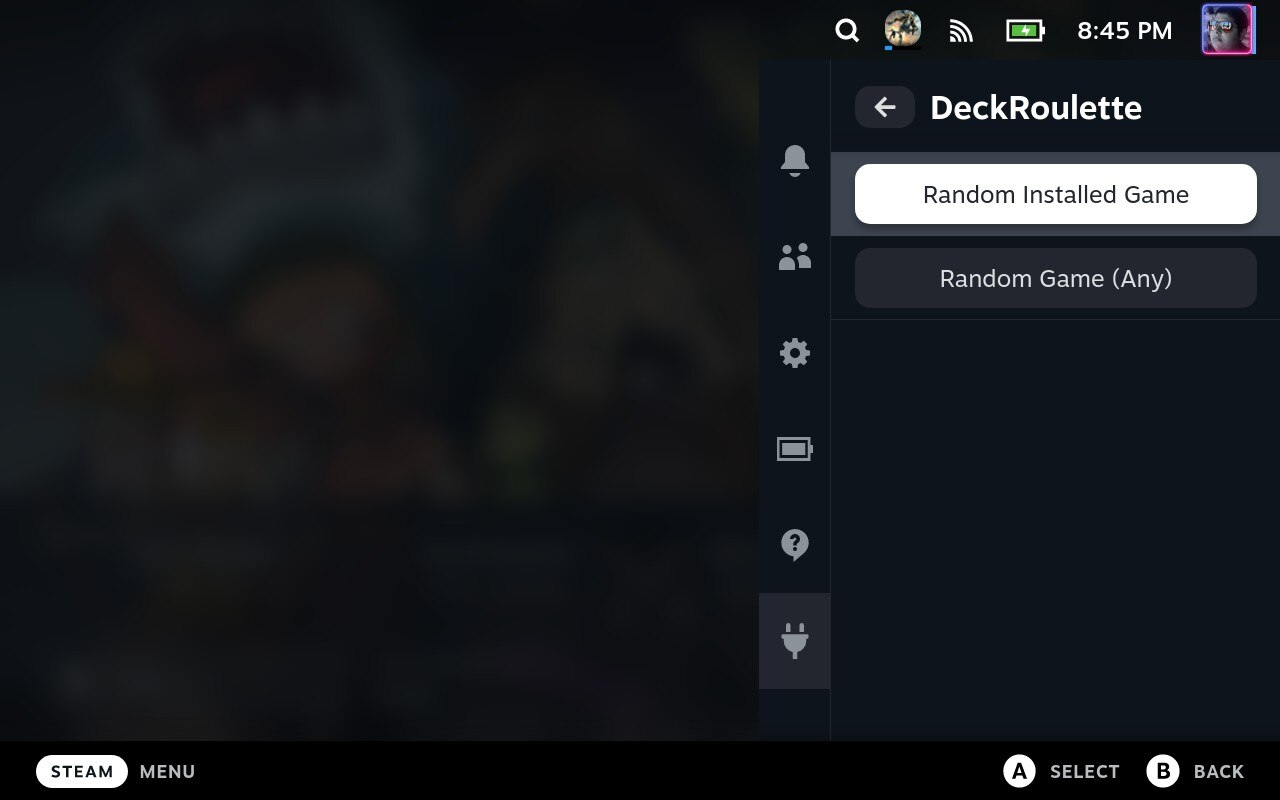
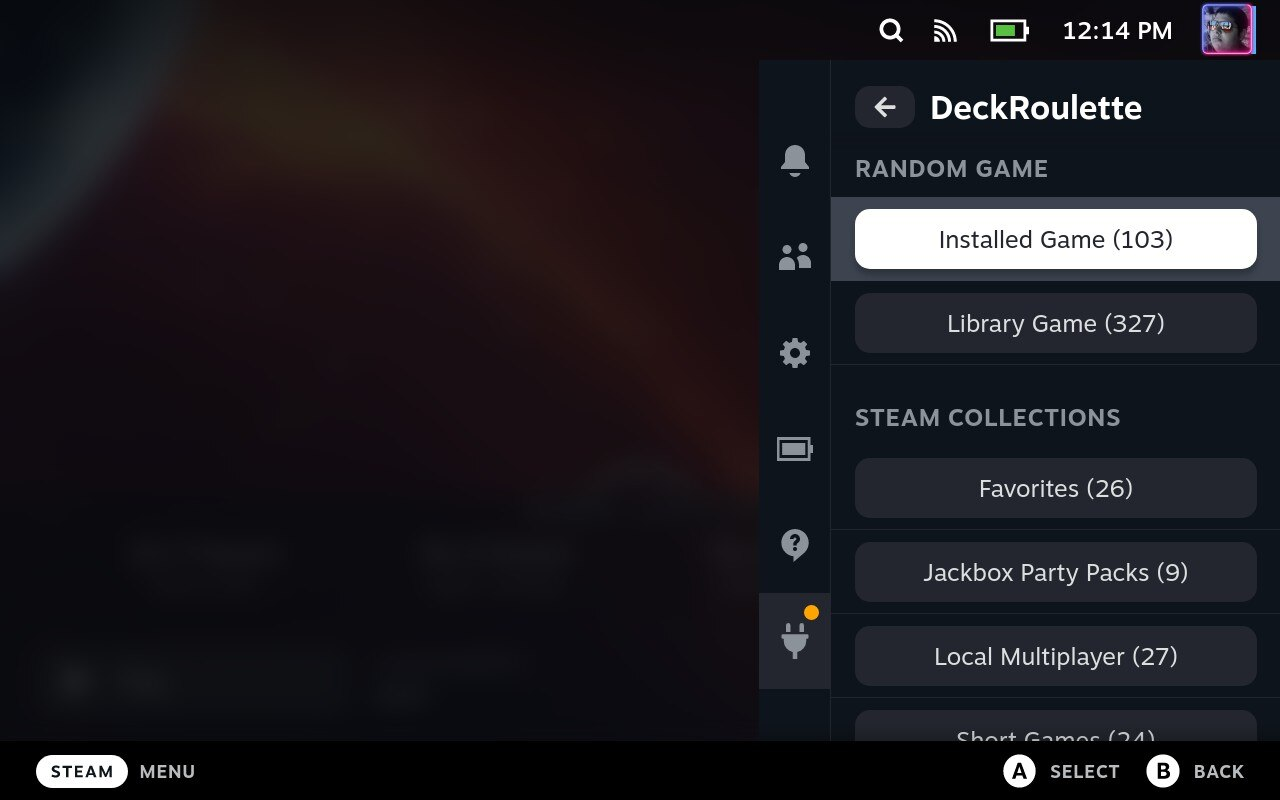
Add Support for Steam Collections

diff --git a/src/index.tsx b/src/index.tsx
@@ -62,7 +62,7 @@ const DeckRoulette = ({ serverApi }: { serverApi: ServerAPI }) => {
 								)
 							}
 						>
-							Random Installed Game (
+							Installed Game (
 							{collections["local-install"].appIds.length})
 						</ButtonItem>
 					</PanelSectionRow>
@@ -76,7 +76,7 @@ const DeckRoulette = ({ serverApi }: { serverApi: ServerAPI }) => {
 							)
 						}
 					>
-						Random Library Game ({allApps.length})
+						Library Game ({allApps.length})
 					</ButtonItem>
 				</PanelSectionRow>
 			</PanelSection>

diff --git a/README.md b/README.md
@@ -2,11 +2,6 @@
 
 ## Description
 
-A Decky Plugin that allows you to navigate to a random game in your library. Currently supports navigating to a random installed game or any random game in your library.
+A Decky Plugin that allows you to navigate to a random game in your library. Currently supports navigating to any any installed game, any game in your library, or a game from one of your Steam Collections.
 
 ![](screenshots/001_random_game.jpg)
-
-## Planned Features
-
--   Create custom 'game lists' that you can save and randomly select from.
--   Navigate to a random game in a collection you've created within Steam.
